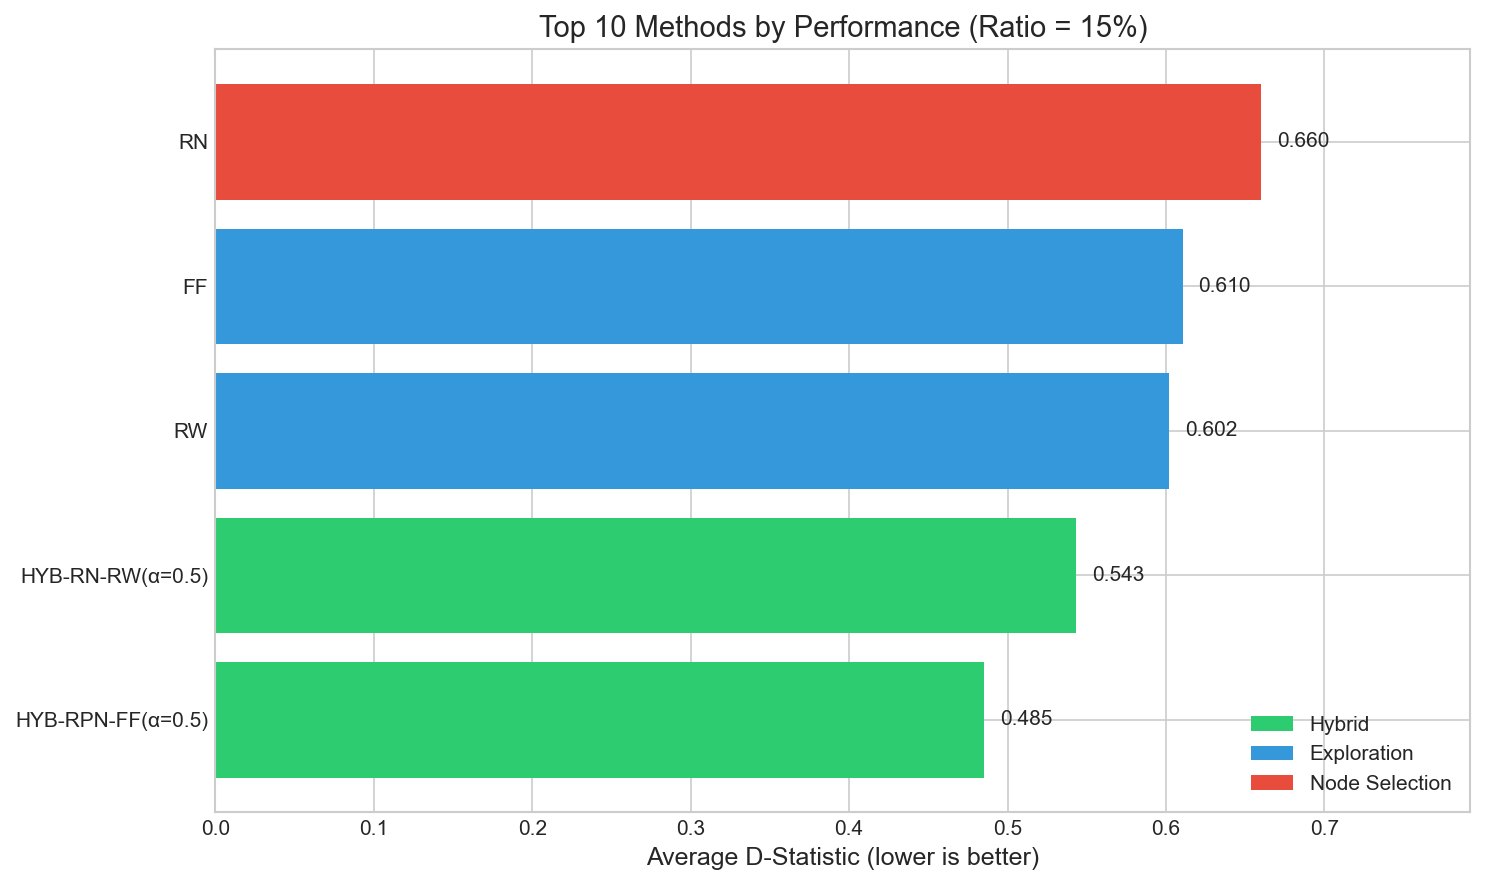
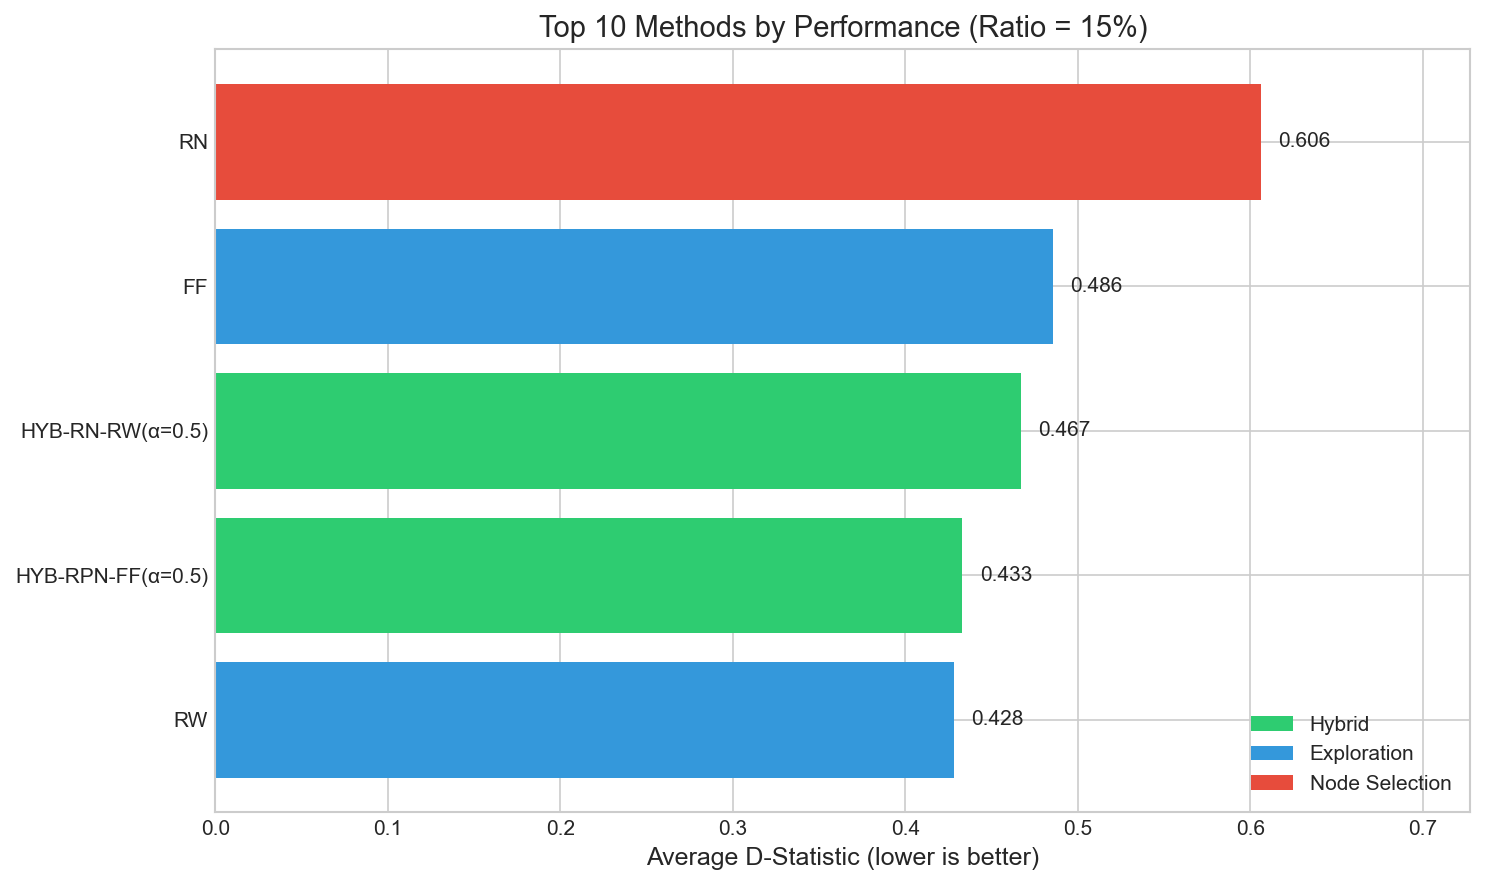
minor changes

diff --git a/main.py b/main.py
@@ -47,7 +47,7 @@ def run_quick_test(args):
     from src.experiment import generate_summary_table, compare_baseline_vs_hybrid
     
     config = ExperimentConfig(
-        datasets=["astro-ph"],
+        datasets=["cit-HepTh"],
         sampling_ratios=[0.15],
         num_runs=3,
         baseline_methods=["RN", "RW", "FF"],
@@ -210,7 +210,7 @@ def main():
         formatter_class=argparse.RawDescriptionHelpFormatter,
         epilog="""
 Examples:
-  python main.py --quick                    Quick test on astro-ph
+  python main.py --quick                    Quick test on cit-HepTh
   python main.py --full                     Full experiment on all datasets
   python main.py --dataset hep-th           Test single dataset
   python main.py --temporal                 TRUE back-in-time with temporal data

diff --git a/src/visualizer.py b/src/visualizer.py
@@ -153,8 +153,11 @@ def plot_property_heatmap(results_df: pd.DataFrame,
     df = results_df[results_df['ratio'] == ratio].copy()
     
     # Properties to display
-    properties = ['in_degree', 'out_degree', 'wcc', 'scc', 
-                  'hop_plot', 'singular_val', 'singular_vec', 'clustering']
+    properties = [
+        "in_degree", "out_degree", "wcc", "scc",
+        "hop_plot", "hop_plot_wcc",
+        "singular_val", "singular_vec", "clustering"
+    ]
     
     # Get unique methods and compute mean per method
     methods = df['method'].unique()

diff --git a/src/experiment.py b/src/experiment.py
@@ -518,7 +518,7 @@ def main():
     if args.quick:
         # Quick test configuration
         config = ExperimentConfig(
-            datasets=["astro-ph"] if args.dataset is None else [args.dataset],
+            datasets=["cit-HepTh"] if args.dataset is None else [args.dataset],
             sampling_ratios=[0.15],
             num_runs=3,
             baseline_methods=["RN", "RW", "FF"],
